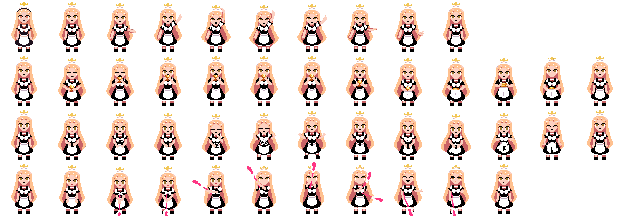
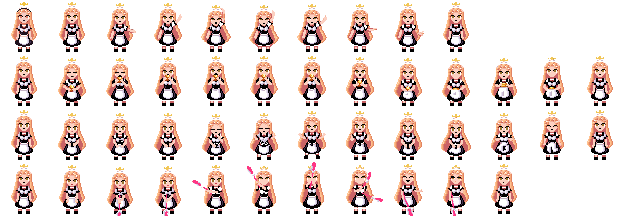
Uptima: shading on every frame of her sprite and gags
tools/uptima_art.py now shades each PixelLab frame before cutting it out: shadowed
edges and strands in her hair with a sheen across the crown, shaded folds on the apron
and collar, a sheen on the dress, and a shadow under her fringe. It works from each
frame's own shapes, so the walk, breathing, all five gags and the yawn share it and
nothing flickers between them. Eye glints and headband frills are left bright.

Claude-Session: https://claude.ai/code/session_015BEcGK719YqZMrMUTsdnYb

diff --git a/game/tools/uptima_art.py b/game/tools/uptima_art.py
@@ -10,9 +10,9 @@ Writes assets/img/village/c-uptima.webp (rows south, west, east, north: column 0
 the walk frames, as SD.art.sheetCol reads them), assets/img/village/g-uptima.webp (one row per gag; the halo row starts
 with her standing frame with the halo out, for its flicker) and js/uptima-art.js, which replaces her entry in
 SD.villageArt so tools/village_art.py never has to know about her. Every cell shares one box, centred on the canvas,
-so she never shifts between her sheet and a gag.
+so she never shifts between her sheet and a gag. Every frame is shaded here (shade() below) before it is cut out.
 """
-import glob, json, os, sys
+import colorsys, glob, json, os, sys
 from PIL import Image
 
 HERE = os.path.dirname(os.path.abspath(__file__))
@@ -21,7 +21,65 @@ SRC = sys.argv[1]
 DIRS = ['south', 'west', 'east', 'north']
 GAGS = [('halo', None), ('croissant', 'heart'), ('pager', 'bang'), ('dust', 'music')]
 
-load = lambda f: Image.open(f).convert('RGBA')
+# Light from the upper left. Each frame is shaded from its own shapes, so every frame of every animation gets the
+# same treatment and nothing flickers between them.
+HAIR_HI, HAIR_MID, HAIR_LO = (255, 222, 186), (246, 170, 120), (226, 132, 98)
+APRON_SH, APRON_LO = (232, 224, 240), (206, 194, 220)
+DRESS_HI = (70, 50, 86)
+SKIN_SH = (240, 178, 160)
+def kind(p):
+    if not p[3]: return None
+    r, g, b = p[:3]; h, l, s = colorsys.rgb_to_hls(r / 255, g / 255, b / 255); H = h * 360
+    if l > 0.95 and s < 0.5 or (l > 0.97): return 'apron'
+    if l < 0.16: return 'dark'
+    if 18 <= H <= 36 and 0.72 <= l <= 0.84 and s > 0.8: return 'hair'
+    if 8 <= H <= 20 and 0.84 <= l <= 0.9 and s > 0.6: return 'skin'
+    return 'other'
+def shade(im):
+    im = im.copy(); px = im.load(); w, h = im.size
+    K = [[kind(px[x, y]) for y in range(h)] for x in range(w)]
+    k = lambda x, y: K[x][y] if 0 <= x < w and 0 <= y < h else None
+    # Only big patches of white are cloth (apron, collar, sleeves); eye glints and the headband's frills stay bright.
+    seen = set()
+    for x in range(w):
+        for y in range(h):
+            if K[x][y] == 'apron' and (x, y) not in seen:
+                part, st = [], [(x, y)]; seen.add((x, y))
+                while st:
+                    a, b = st.pop(); part.append((a, b))
+                    for c, d in ((a + 1, b), (a - 1, b), (a, b + 1), (a, b - 1)):
+                        if k(c, d) == 'apron' and (c, d) not in seen: seen.add((c, d)); st.append((c, d))
+                if len(part) < 14:
+                    for a, b in part: K[a][b] = 'glint'
+    out = {}
+    # the top of the hair in each column, for the sheen band across the crown
+    top = {}
+    for x in range(w):
+        for y in range(h):
+            if K[x][y] == 'hair': top[x] = y; break
+    for x in range(w):
+        for y in range(h):
+            c = K[x][y]
+            if c == 'hair':
+                d = y - top[x]
+                if (k(x + 1, y) != 'hair' or k(x, y + 1) != 'hair') and k(x - 1, y) == 'hair': out[x, y] = HAIR_LO
+                elif k(x + 2, y) != 'hair' and k(x + 1, y) == 'hair': out[x, y] = HAIR_MID
+                elif 2 <= d <= 3 and k(x - 1, y) == 'hair' and k(x + 1, y) == 'hair': out[x, y] = HAIR_HI
+                elif x % 4 == 1 and d > 8 and k(x, y - 1) == 'hair' and k(x, y + 1) == 'hair' and (y + x) % 7 > 1: out[x, y] = HAIR_MID
+            elif c == 'apron':
+                if k(x + 1, y) not in ('apron', None, 'glint') or k(x, y + 1) not in ('apron', None, 'glint'): out[x, y] = APRON_LO
+                elif k(x, y - 1) == 'dark' or k(x + 2, y) not in ('apron', None): out[x, y] = APRON_SH
+            elif c == 'dark':
+                if all(k(a, b) not in (None,) for a, b in ((x + 1, y), (x - 1, y), (x, y + 1), (x, y - 1))) \
+                   and all(k(a, b) == 'dark' for a, b in ((x + 1, y), (x, y + 1))) and (k(x - 1, y) == 'dark') and (k(x, y - 1) == 'dark') \
+                   and k(x - 2, y) not in ('dark', None) and k(x - 2, y) != 'hair':
+                    out[x, y] = DRESS_HI
+            elif c == 'skin':
+                if k(x, y - 1) == 'hair' or k(x, y - 1) == 'dark' and k(x, y - 2) == 'hair': out[x, y] = SKIN_SH
+    for (x, y), v in out.items(): px[x, y] = v + (px[x, y][3],)
+    return im
+
+load = lambda f: shade(Image.open(f).convert('RGBA'))
 frames = lambda d: [load(f) for f in sorted(glob.glob(os.path.join(SRC, d, '*.png')))]
 
 def halo_out(im):
